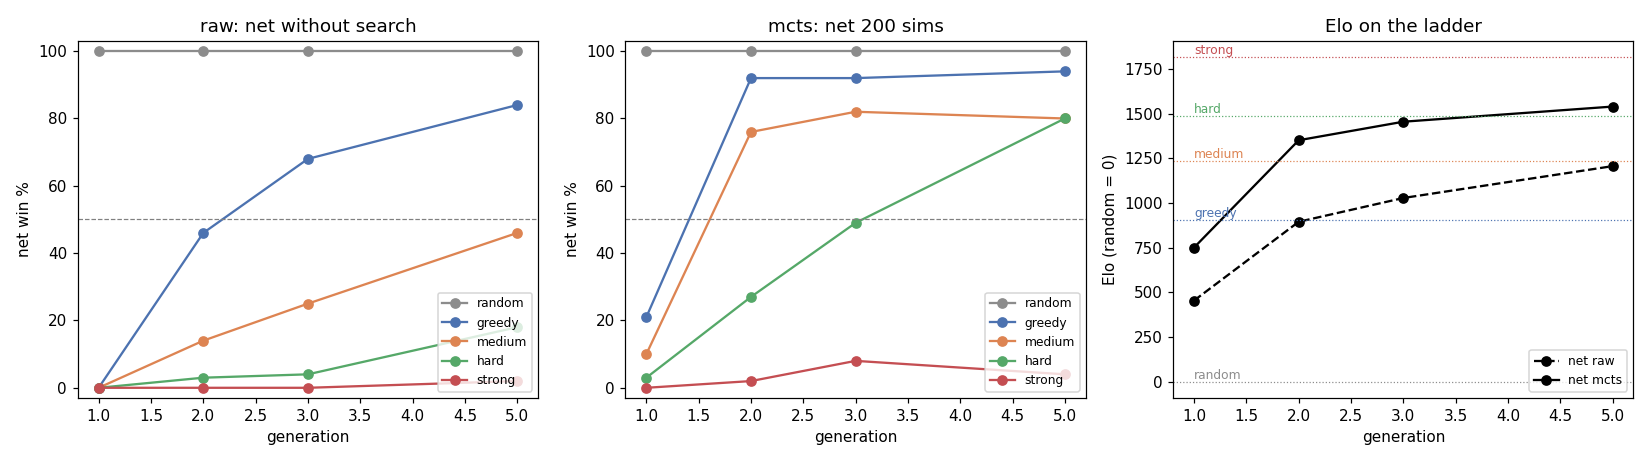
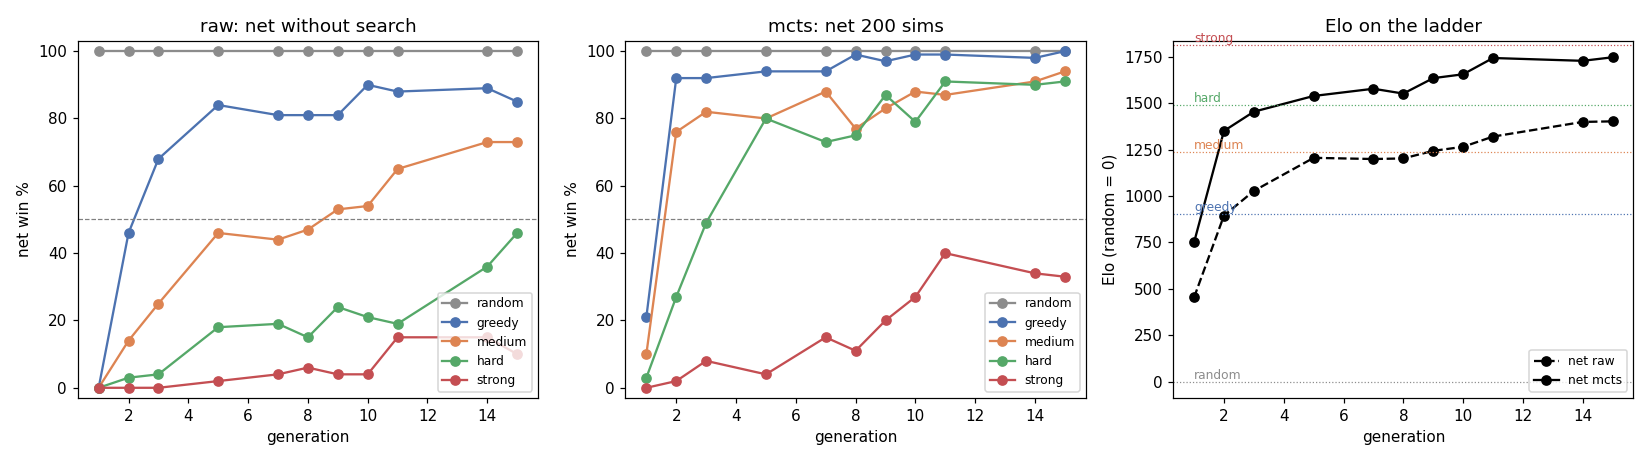
docs: az5 overnight results (15 generations), ladder table and curves

diff --git a/docs/overnight.md b/docs/overnight.md
@@ -239,3 +239,45 @@ Overnight notes (az5):
   the first 30 lines (self-play outcome is barely predictable there with
   temperature-1 openings), 0.79 at 40–50 lines, 0.40 at 50+ (corr 0.67).
   So the overall value loss of ~0.90 is not a bug.
+- 02:59–04:59 the neighbour was in a lighter phase (`dist0`): self-play
+  25–35k evaluations/s, generations ~20 min; from 04:59 (`distill-collect`
+  again) 13–21k/s, ~40 min. Training 1100 steps: 36 s with the lighter
+  neighbour, ~3 min with the heavier one.
+
+Results by 07:25 (15 generations, 11 accepted: 1, 2, 3, 5, 7, 8, 9, 10,
+11, 14, 15; rejected 4, 6, 12, 13). Full table `docs/az5_ladder.md`,
+curves `docs/az5_ladder.png`. Net win % (100 games per cell):
+
+| gen | raw: greedy | medium | hard | strong | Elo | mcts 200: greedy | medium | hard | strong | Elo |
+|---:|---:|---:|---:|---:|---:|---:|---:|---:|---:|---:|
+| 1 | 0 | 0 | 0 | 0 | 454 | 21 | 10 | 3 | 0 | 750 |
+| 2 | 46 | 14 | 3 | 0 | 894 | 92 | 76 | 27 | 2 | 1351 |
+| 5 | 84 | 46 | 18 | 2 | 1206 | 94 | 80 | 80 | 4 | 1539 |
+| 11 | 88 | 65 | 19 | 15 | 1320 | 99 | 87 | 91 | 40 | 1743 |
+| 15 | 85 | 73 | 46 | 10 | 1402 | 100 | 94 | 91 | 33 | 1747 |
+
+Anchors: greedy 905, medium 1235, hard 1488, strong 1815.
+- With MCTS 200 the net passed greedy and Medium in gen 2, Hard in gen 5
+  (80%); since gen 11 it beats Hard ~90% and wins 33–40% against strong
+  (Elo ~1745 vs 1815). The raw policy alone passed greedy in gen 3,
+  Medium in gen 9 (53%), and is below Hard (46% in gen 15).
+- MCTS adds ~350 Elo over the raw policy at every generation.
+- Progress per generation is slowing: gating scores fell from 100% to
+  55–61% with two rejections in a row (12, 13) before gen 14.
+
+Bottleneck: GPU time shared with the pacman distillation. The training
+itself is cheap (36 s per generation with a free-ish GPU); self-play is
+85–90% of a generation. Within one process the Python tree is ~60% of
+the time at batch 64, so with a free GPU the next limit would be the
+tree code (then cffi/C would pay off).
+
+Ideas for later:
+- Learning-rate drop (0.02 → 0.002) once gating stalls; currently
+  constant.
+- KataGo-style playout cap randomisation and an auxiliary score-margin
+  head (the value only knows win/loss; endgame margins are free signal).
+- Tree reuse between moves; C tree (cffi) once the GPU is not shared.
+- Evaluate against strong with a fixed node budget instead of 0.5 s wall
+  clock, which depends on the machine load during self-play.
+- `az` agent in `agents/registry.py` for the ladder script and the
+  bridge (final games against the real KSquares).

diff --git a/docs/az5_ladder.md b/docs/az5_ladder.md
@@ -1,6 +1,6 @@
 # AlphaZero 5x5 — ladder per accepted generation
 
-Generated by `scripts/az_eval.py` from `runs/az5` (2026-10-24 03:15). Win % of the net, 100 games per cell, first mover alternating; raw = policy argmax without search, mcts = 200 simulations. Elo: Bradley-Terry vs the fixed ladder anchors, random = 0.
+Generated by `scripts/az_eval.py` from `runs/az5` (2026-10-24 07:22). Win % of the net, 100 games per cell, first mover alternating; raw = policy argmax without search, mcts = 200 simulations. Elo: Bradley-Terry vs the fixed ladder anchors, random = 0.
 
 Anchor Elo (from the 200-game ladder in docs/results.md): random 0, greedy 905, easy 888, medium 1235, hard 1488, strong 1815.
 
@@ -10,3 +10,10 @@ Anchor Elo (from the 200-game ladder in docs/results.md): random 0, greedy 905, 
 | 2 | 100 | 100 | 46 | 14 | 3 | 0 | 894 | 100 | 92 | 76 | 27 | 2 | 1351 |
 | 3 | 68 | 100 | 68 | 25 | 4 | 0 | 1028 | 100 | 92 | 82 | 49 | 8 | 1454 |
 | 5 | 80 | 100 | 84 | 46 | 18 | 2 | 1206 | 100 | 94 | 80 | 80 | 4 | 1539 |
+| 7 | 68 | 100 | 81 | 44 | 19 | 4 | 1199 | 100 | 94 | 88 | 73 | 15 | 1578 |
+| 8 | 66 | 100 | 81 | 47 | 15 | 6 | 1202 | 100 | 99 | 77 | 75 | 11 | 1552 |
+| 9 | 69 | 100 | 81 | 53 | 24 | 4 | 1243 | 100 | 97 | 83 | 87 | 20 | 1635 |
+| 10 | 62 | 100 | 90 | 54 | 21 | 4 | 1265 | 100 | 99 | 88 | 79 | 27 | 1656 |
+| 11 | 55 | 100 | 88 | 65 | 19 | 15 | 1320 | 100 | 99 | 87 | 91 | 40 | 1743 |
+| 14 | 61 | 100 | 89 | 73 | 36 | 15 | 1399 | 100 | 98 | 91 | 90 | 34 | 1728 |
+| 15 | 55 | 100 | 85 | 73 | 46 | 10 | 1402 | 100 | 100 | 94 | 91 | 33 | 1747 |

diff --git a/docs/results.md b/docs/results.md
@@ -146,3 +146,23 @@ Easy plays like greedy (random capture, random safe line, random
 sacrifice); the step to Medium is sacrificing the shortest chain, the step
 to Hard (96.5% vs Medium) is all-but-two and hard-hearted handouts. Strong
 vs Hard came out 93.5% here and 94.5% in the separate run above.
+
+## AlphaZero on 5x5 (overnight 2026-10-23/24)
+
+`scripts/az_train.py` / `scripts/az_eval.py` (`configs/az5.yaml`):
+ResNet 6x64 (0.51M parameters), 200 simulations per move in self-play,
+gating at 55% over 100 games. Every accepted generation plays 100 games
+against each opponent (first mover alternating), as the raw policy
+(argmax, no search) and with MCTS 200 (no noise). Elo: Bradley-Terry
+against the fixed ladder anchors above (random 0, greedy 905, easy 888,
+medium 1235, hard 1488, strong 1815). strong has 0.5 s per move by wall
+clock on a loaded machine. Full table per generation: `docs/az5_ladder.md`;
+curves: `docs/az5_ladder.png`.
+
+| gen | raw vs greedy | raw vs medium | raw vs hard | raw vs strong | raw Elo | mcts vs greedy | mcts vs medium | mcts vs hard | mcts vs strong | mcts Elo |
+|---:|---:|---:|---:|---:|---:|---:|---:|---:|---:|---:|
+| 1 | 0 | 0 | 0 | 0 | 454 | 21 | 10 | 3 | 0 | 750 |
+| 2 | 46 | 14 | 3 | 0 | 894 | 92 | 76 | 27 | 2 | 1351 |
+| 5 | 84 | 46 | 18 | 2 | 1206 | 94 | 80 | 80 | 4 | 1539 |
+| 11 | 88 | 65 | 19 | 15 | 1320 | 99 | 87 | 91 | 40 | 1743 |
+| 15 | 85 | 73 | 46 | 10 | 1402 | 100 | 94 | 91 | 33 | 1747 |
